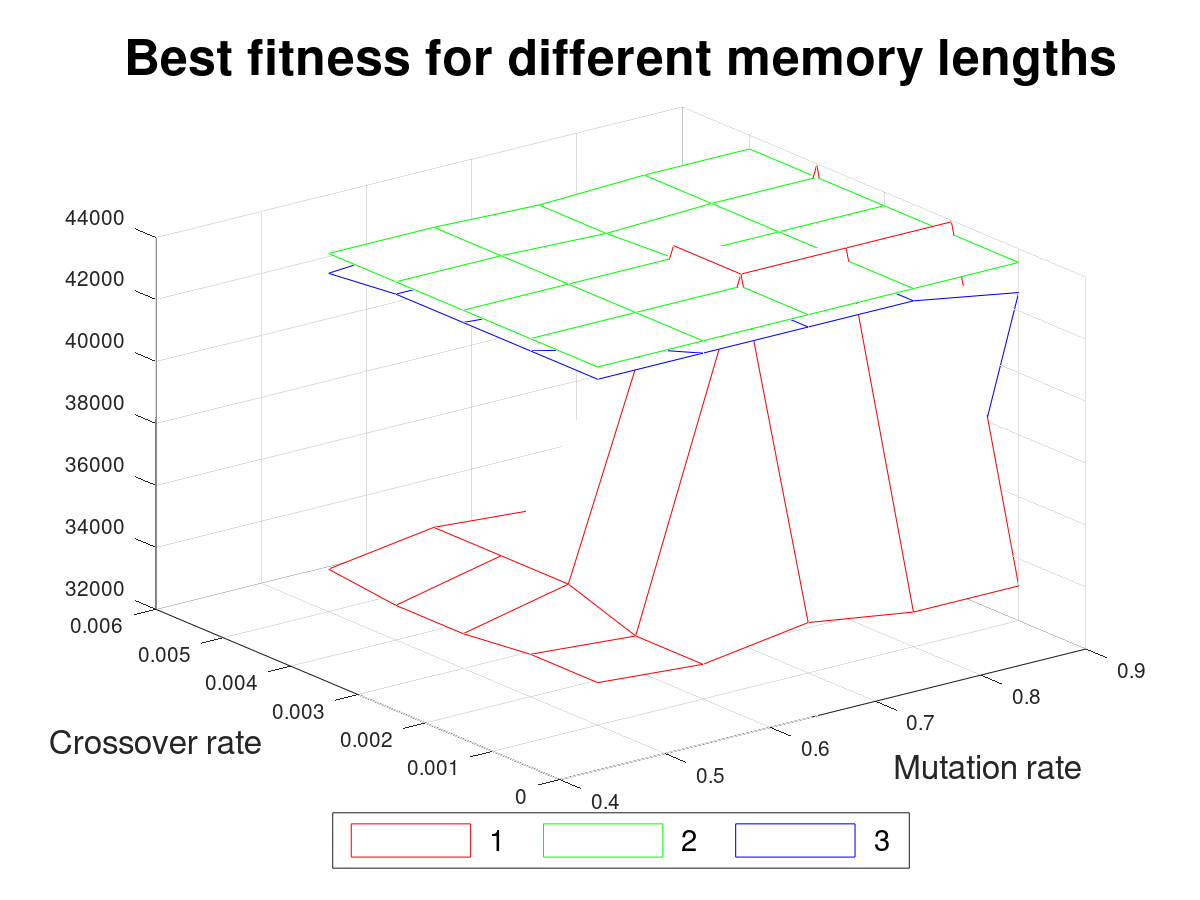
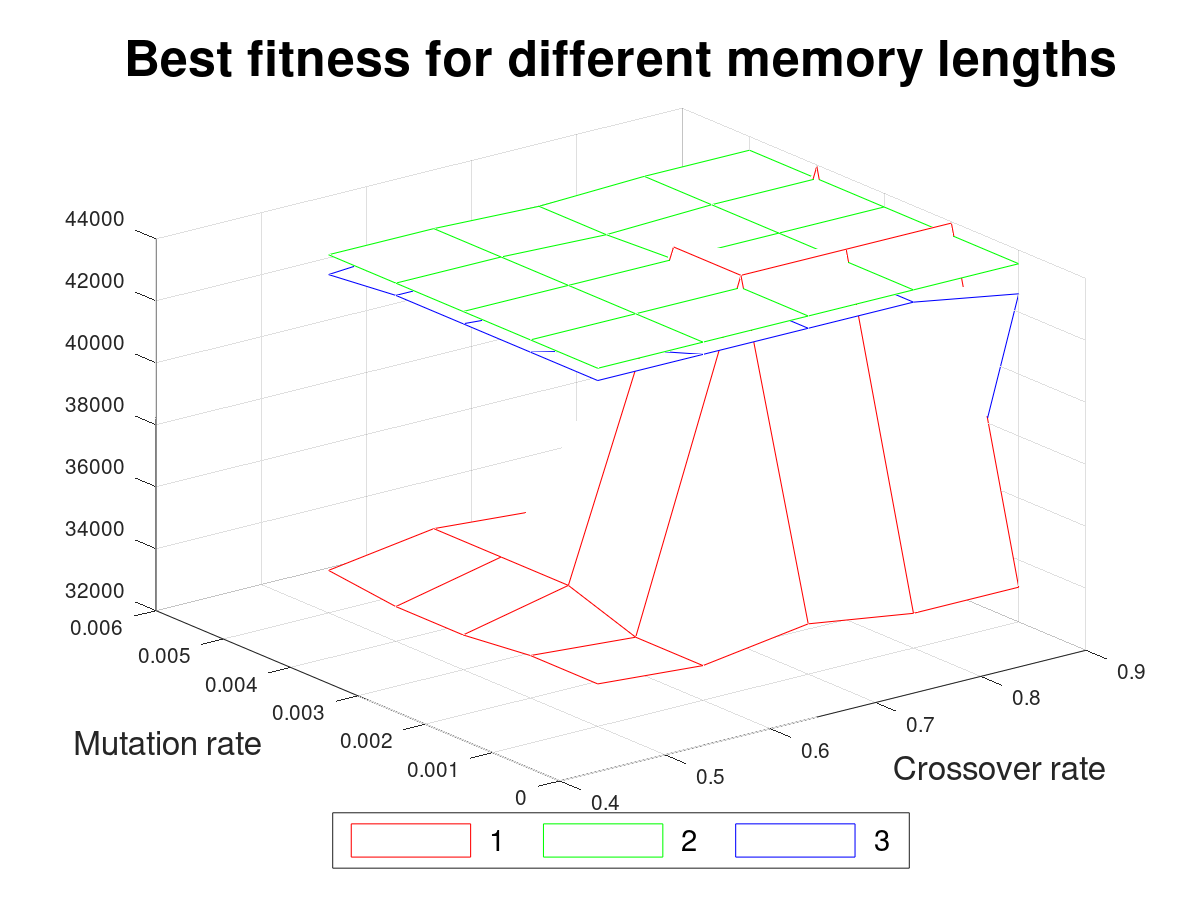
label crossover rate and mutation rate switched

diff --git a/experiments.code/experiment3.m b/experiments.code/experiment3.m
@@ -39,8 +39,8 @@ for k=1:length(memory_lengths)
 end
 
 title('Best fitness for different memory lengths', 'FontSize', 24);
-xlabel('Mutation rate', 'FontSize', 16);
-ylabel('Crossover rate', 'FontSize', 16);
+xlabel('Crossover rate', 'FontSize', 16);
+ylabel('Mutation rate', 'FontSize', 16);
 leg = legend(meshes, {'1','2','3','4','5','6'}, 'Location', 'BestOutside', 'Orientation', 'Horizontal');
 set(leg,'FontSize', 14);
 saveas(gcf,'experiment3.png')

diff --git a/experiments.code/experiment3fixed.m b/experiments.code/experiment3fixed.m
@@ -39,8 +39,8 @@ for k=1:length(memory_lengths)
 end
 
 title('Best fitness for different memory lengths', 'FontSize', 24);
-xlabel('Mutation rate', 'FontSize', 16);
-ylabel('Crossover rate', 'FontSize', 16);
+xlabel('Crossover rate', 'FontSize', 16);
+ylabel('Mutation rate', 'FontSize', 16);
 leg = legend(meshes, {'1','2','3'}, 'Location', 'BestOutside', 'Orientation', 'Horizontal');
 set(leg,'FontSize', 14);
 saveas(gcf,'experiment3fixed.png')
